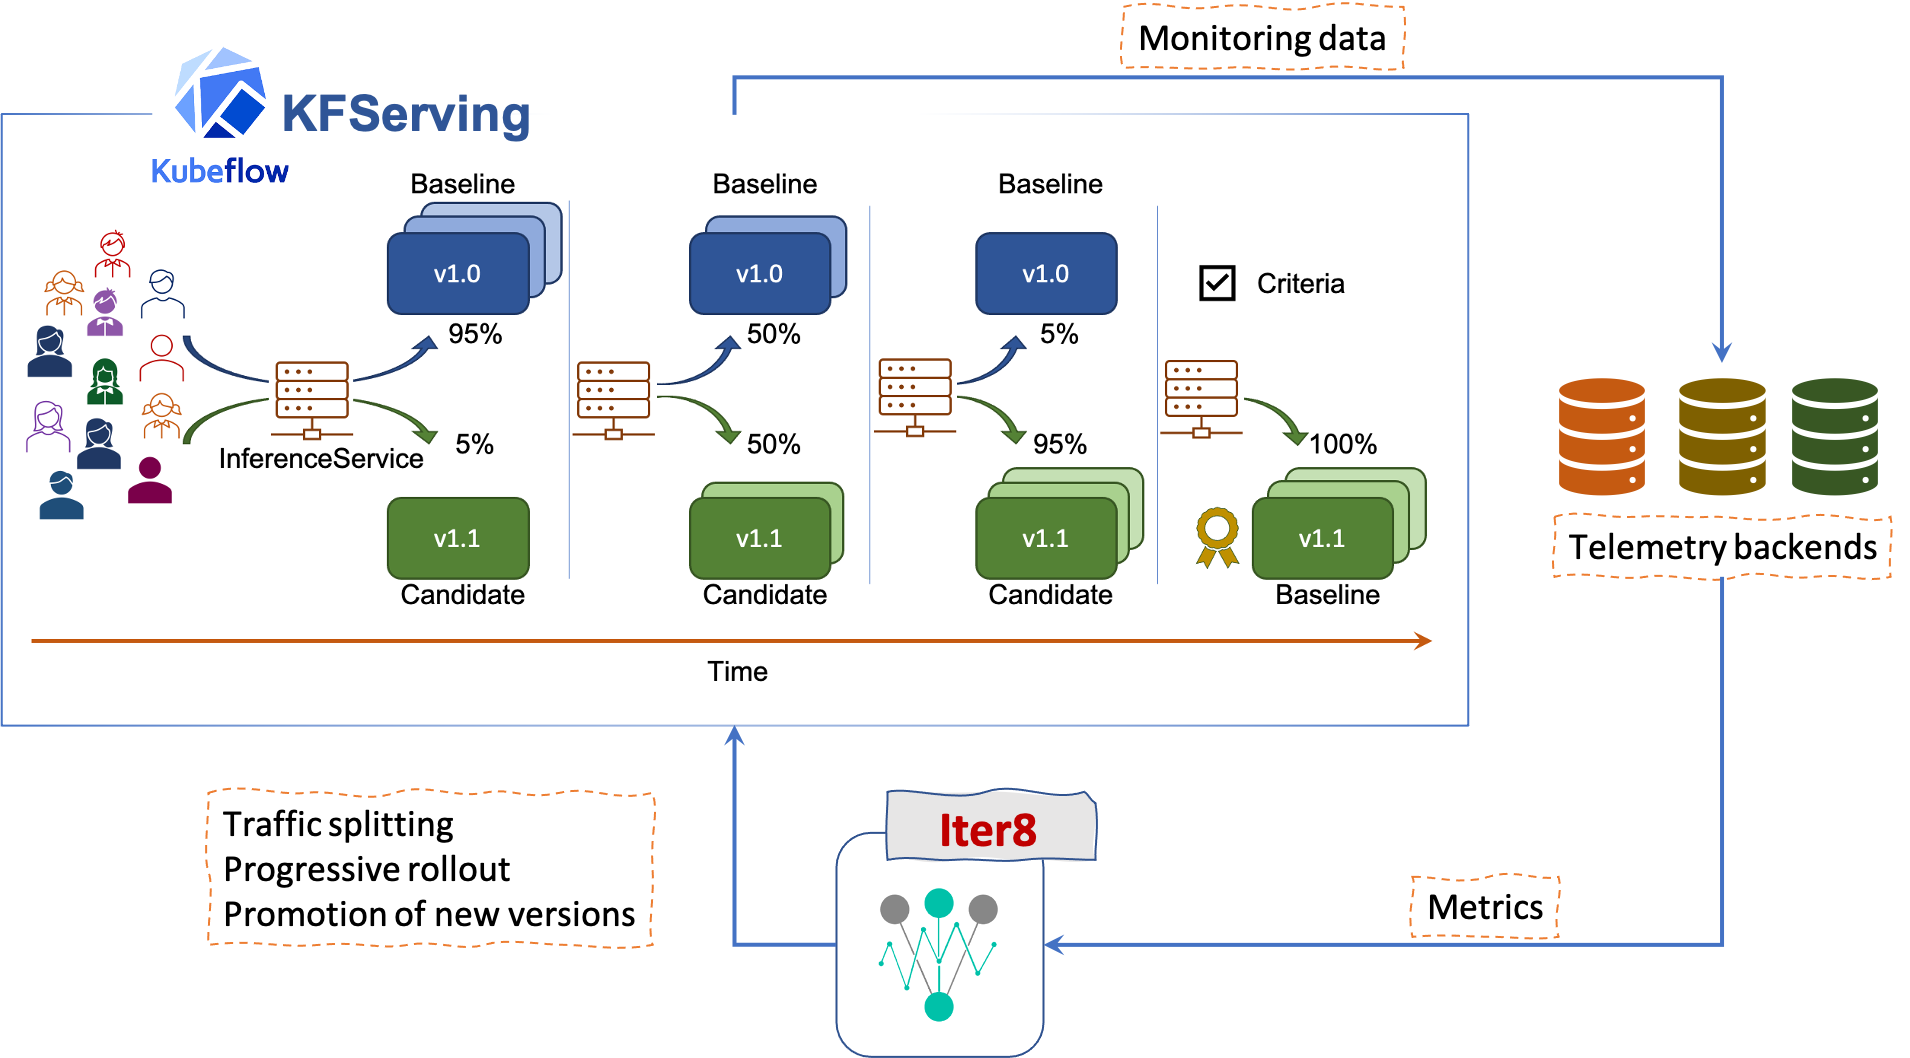
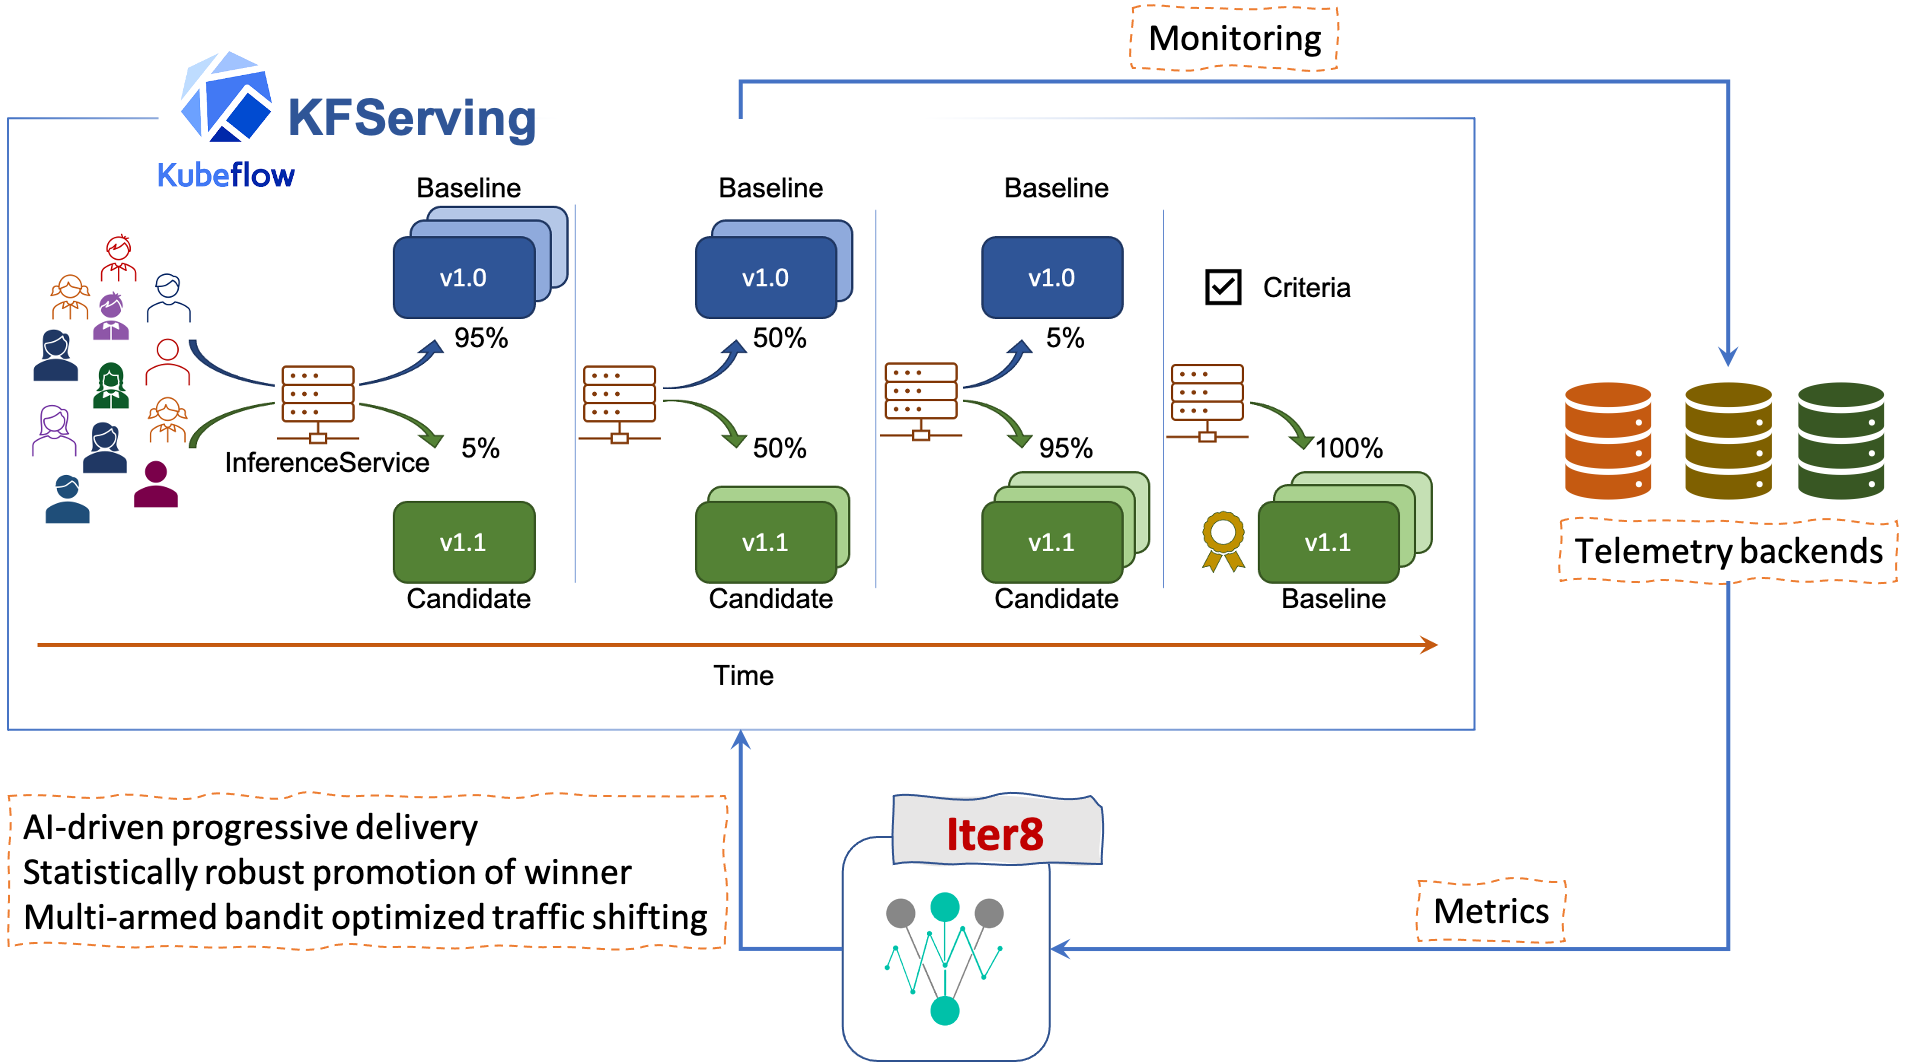
new pic and blurb (#64)
* new pic and blurb

* shortening

diff --git a/README.md b/README.md
@@ -1,9 +1,9 @@
 # Iter8-kfserving
-> [KFServing](https://github.com/kubeflow/kfserving) enables serverless inferencing on [Kubernetes](https://kubernetes.io) and [OpenShift](https://www.openshift.com). [Iter8](https://iter8.tools) enables metrics-driven live experiments, release engineering and rollout optimization for Kubernetes and OpenShift applications. The iter8-kfserving domain package brings the two projects together.
+> [KFServing](https://github.com/kubeflow/kfserving) enables serverless inferencing on [Kubernetes](https://kubernetes.io) and [OpenShift](https://www.openshift.com). [Iter8](https://iter8.tools) enables metrics and AI-driven live experiments, progressive delivery, and rollout optimization for Kubernetes and OpenShift applications. The iter8-kfserving domain package brings the two projects together.
 
-The picture below illustrates an automated canary rollout orchestrated by iter8-kfserving.
+The picture below illustrates progressive canary rollout of a KFServing model using iter8-kfserving.
 
-![Automated canary rollout orchestrated by iter8-kfserving](docs/images/iter8kfservingquickstart.png)
+![Progressive canary rollout orchestrated by iter8-kfserving](docs/images/iter8kfservingquickstart.png)
 
 ## Table of Contents
 - [Quick start on Minikube](#Quick-start-on-Minikube)
